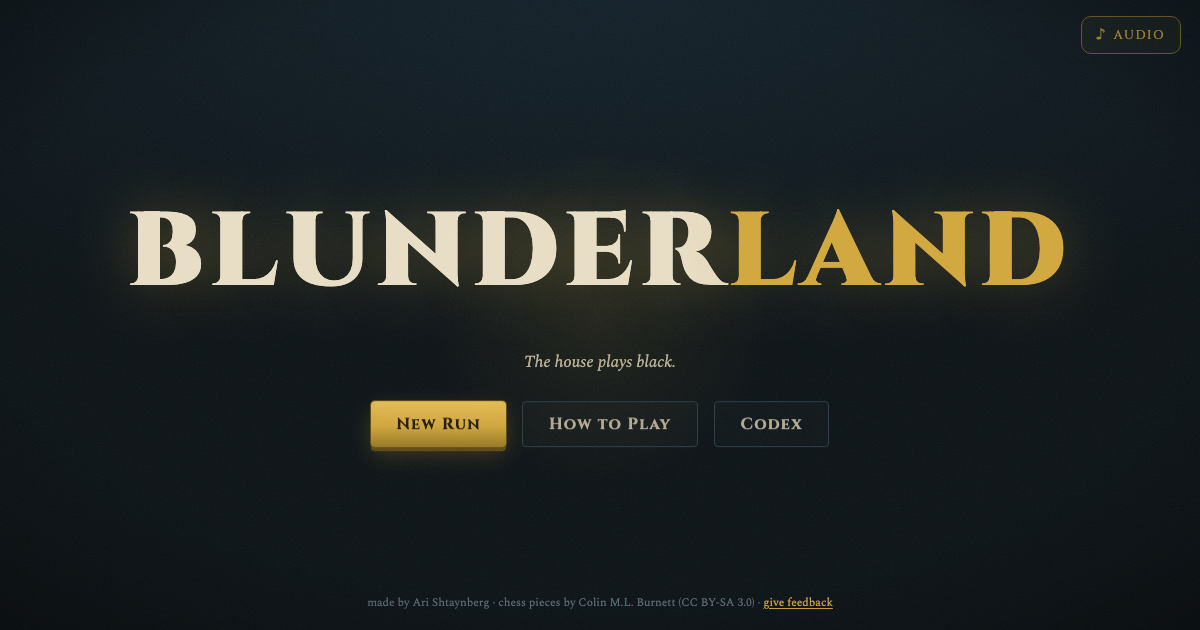
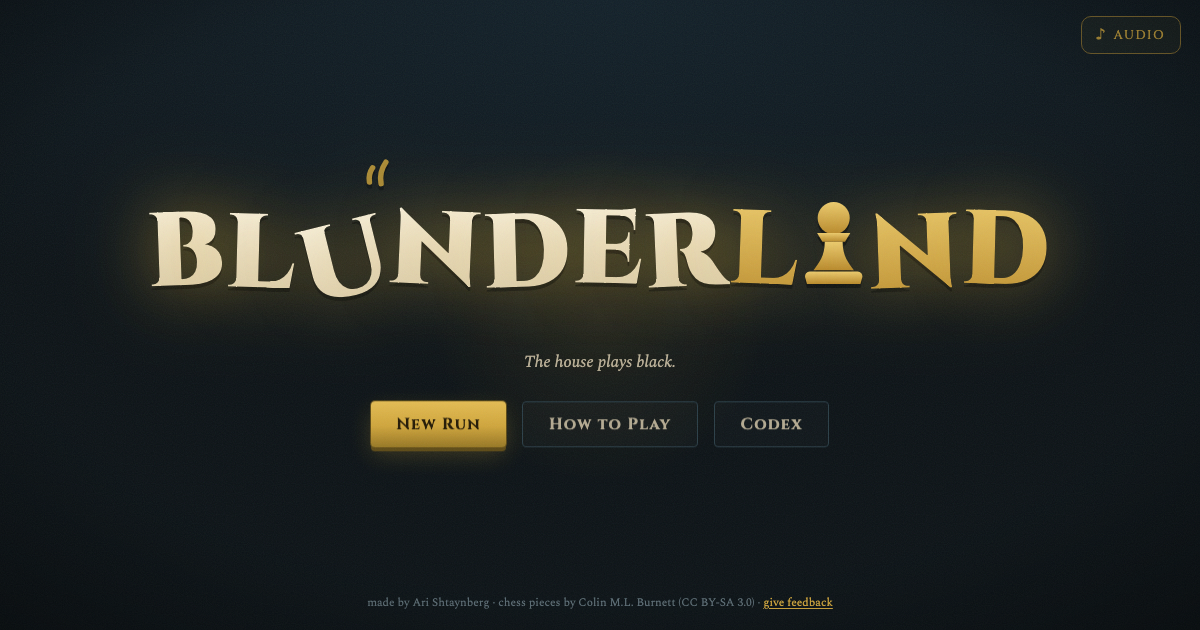
Wordmark: hand-set playbill letters, the toppling U and the pawn A

Changed region(s): [[0.0925, 0.3016, 0.8942, 0.4825], [0.3083, 0.2413, 0.3392, 0.3016]]

diff --git a/src/ui/Wordmark.tsx b/src/ui/Wordmark.tsx
@@ -1,0 +1,80 @@
+// The BLUNDERLAND wordmark: hand-set Victorian playbill letters where the
+// type itself blunders — the U mid-topple, and LAND's A stood in for by a
+// gold pawn. Every offset is em-based so the mark scales from HUD to title.
+
+interface Letter {
+  ch: string;
+  rot: number; // degrees
+  dy: number; // em
+  gold?: boolean;
+  topple?: boolean;
+  pawn?: boolean;
+}
+
+const LETTERS: Letter[] = [
+  { ch: "B", rot: -2, dy: 0 },
+  { ch: "L", rot: 1.5, dy: 0.02 },
+  { ch: "U", rot: -14, dy: 0.1, topple: true },
+  { ch: "N", rot: 2.5, dy: -0.01 },
+  { ch: "D", rot: -1.5, dy: 0.015 },
+  { ch: "E", rot: 1, dy: -0.02 },
+  { ch: "R", rot: -2.5, dy: 0.01 },
+  { ch: "L", rot: 2, dy: -0.015, gold: true },
+  { ch: "A", rot: 0, dy: 0, gold: true, pawn: true },
+  { ch: "N", rot: -2, dy: 0.02, gold: true },
+  { ch: "D", rot: 1.5, dy: -0.01, gold: true },
+];
+
+function Pawn() {
+  return (
+    <svg class="wm-pawn" viewBox="0 0 100 140" aria-hidden="true">
+      <defs>
+        <linearGradient id="wmgold" x1="0" y1="0" x2="0" y2="1">
+          <stop offset="0%" stop-color="#eccb6d" />
+          <stop offset="100%" stop-color="#b8892a" />
+        </linearGradient>
+      </defs>
+      <g fill="url(#wmgold)">
+        <circle cx="50" cy="27" r="27" />
+        <path d="M22 52 h56 l-9 15 h-38 z" />
+        <path d="M35 67 h30 c0 24 10 36 19 48 h-68 c9-12 19-24 19-48 z" />
+        <path d="M10 117 h80 a8 8 0 0 1 8 10 l-3 11 h-90 l-3-11 a8 8 0 0 1 8-10 z" />
+      </g>
+    </svg>
+  );
+}
+
+export function Wordmark() {
+  return (
+    <span class="wordmark" role="img" aria-label="Blunderland">
+      {LETTERS.map((l, i) =>
+        l.pawn ? (
+          <Pawn key={i} />
+        ) : (
+          <span
+            key={i}
+            aria-hidden="true"
+            class={`wm${l.gold ? " wm-gold" : ""}${l.topple ? " wm-topple" : ""}`}
+            style={{ transform: `rotate(${l.rot}deg) translateY(${l.dy}em)` }}
+          >
+            {l.ch}
+            {l.topple && (
+              <svg class="wm-arcs" viewBox="0 0 40 40" aria-hidden="true">
+                <g
+                  fill="none"
+                  stroke="#d3a83c"
+                  stroke-width="5"
+                  stroke-linecap="round"
+                  opacity="0.8"
+                >
+                  <path d="M 10 24 a 18 18 0 0 1 6 -12" />
+                  <path d="M 20 28 a 26 26 0 0 1 9 -18" />
+                </g>
+              </svg>
+            )}
+          </span>
+        ),
+      )}
+    </span>
+  );
+}

diff --git a/src/ui/game.css b/src/ui/game.css
@@ -2528,3 +2528,45 @@ img.art-icon {
   gap: 0.7rem;
   align-items: center;
 }
+
+/* ─── The wordmark: hand-set playbill letters, one mid-blunder ─── */
+
+.wordmark {
+  display: inline-flex;
+  align-items: baseline;
+  font-family: var(--font-display);
+  font-weight: 900;
+  letter-spacing: 0.02em;
+  filter: drop-shadow(0 0.045em 0 rgba(5, 8, 10, 0.6))
+    drop-shadow(0 0 0.35em rgba(211, 168, 60, 0.3));
+}
+.wordmark .wm {
+  display: inline-block;
+  background: linear-gradient(180deg, #faf3e0 15%, #d8c9a5 90%);
+  -webkit-background-clip: text;
+  background-clip: text;
+  color: transparent;
+}
+.wordmark .wm-gold {
+  background: linear-gradient(180deg, #eccb6d 12%, #b8892a 92%);
+  -webkit-background-clip: text;
+  background-clip: text;
+}
+.wordmark .wm-topple {
+  position: relative;
+  margin: 0 0.015em;
+}
+.wm-arcs {
+  position: absolute;
+  top: -0.28em;
+  right: -0.3em;
+  width: 0.42em;
+  height: 0.42em;
+}
+.wm-pawn {
+  /* Baseline-aligned like a letter: an SVG's bottom edge IS its baseline in
+     a baseline-aligned flex row, so the pawn stands on the line. */
+  height: 0.8em;
+  width: auto;
+  margin: 0 0.05em;
+}

diff --git a/src/app.tsx b/src/app.tsx
@@ -24,6 +24,7 @@ import {
 import { CHARMS } from "./engine/charms";
 import type { OpeningId, RunState, Square } from "./engine/types";
 import { Board } from "./ui/Board";
+import { Wordmark } from "./ui/Wordmark";
 import { Codex } from "./ui/Codex";
 import { CharmBar } from "./ui/CharmBar";
 import { OpeningPicker } from "./ui/OpeningPicker";
@@ -340,7 +341,7 @@ export function App() {
       <main class="menu">
         <div class="menu-glow" />
         <h1 class="menu-title">
-          BLUNDER<span>LAND</span>
+          <Wordmark />
         </h1>
         <p class="menu-tag">The house plays black.</p>
         <div class="menu-actions">

diff --git a/src/ui/Hud.tsx b/src/ui/Hud.tsx
@@ -5,6 +5,7 @@ import { bossFor } from "../engine/run";
 import { OPENINGS } from "../engine/openings";
 import { PATENTS } from "../engine/patents";
 import { POSTERS } from "../engine/posters";
+import { Wordmark } from "./Wordmark";
 import { TRIALS } from "../engine/trials";
 import type { MovePattern } from "../engine/types";
 import type { RunState } from "../engine/types";
@@ -30,7 +31,7 @@ export function Hud({ run, animScore, liveChips, liveMult, replaying, onHome }: 
   return (
     <aside class="hud">
       <button class="hud-title" onClick={onHome} title="Back to the menu">
-        BLUNDER<span>LAND</span>
+        <Wordmark />
       </button>
 
       <div class={`hud-ante${run.endless ? " endless" : ""}`}>